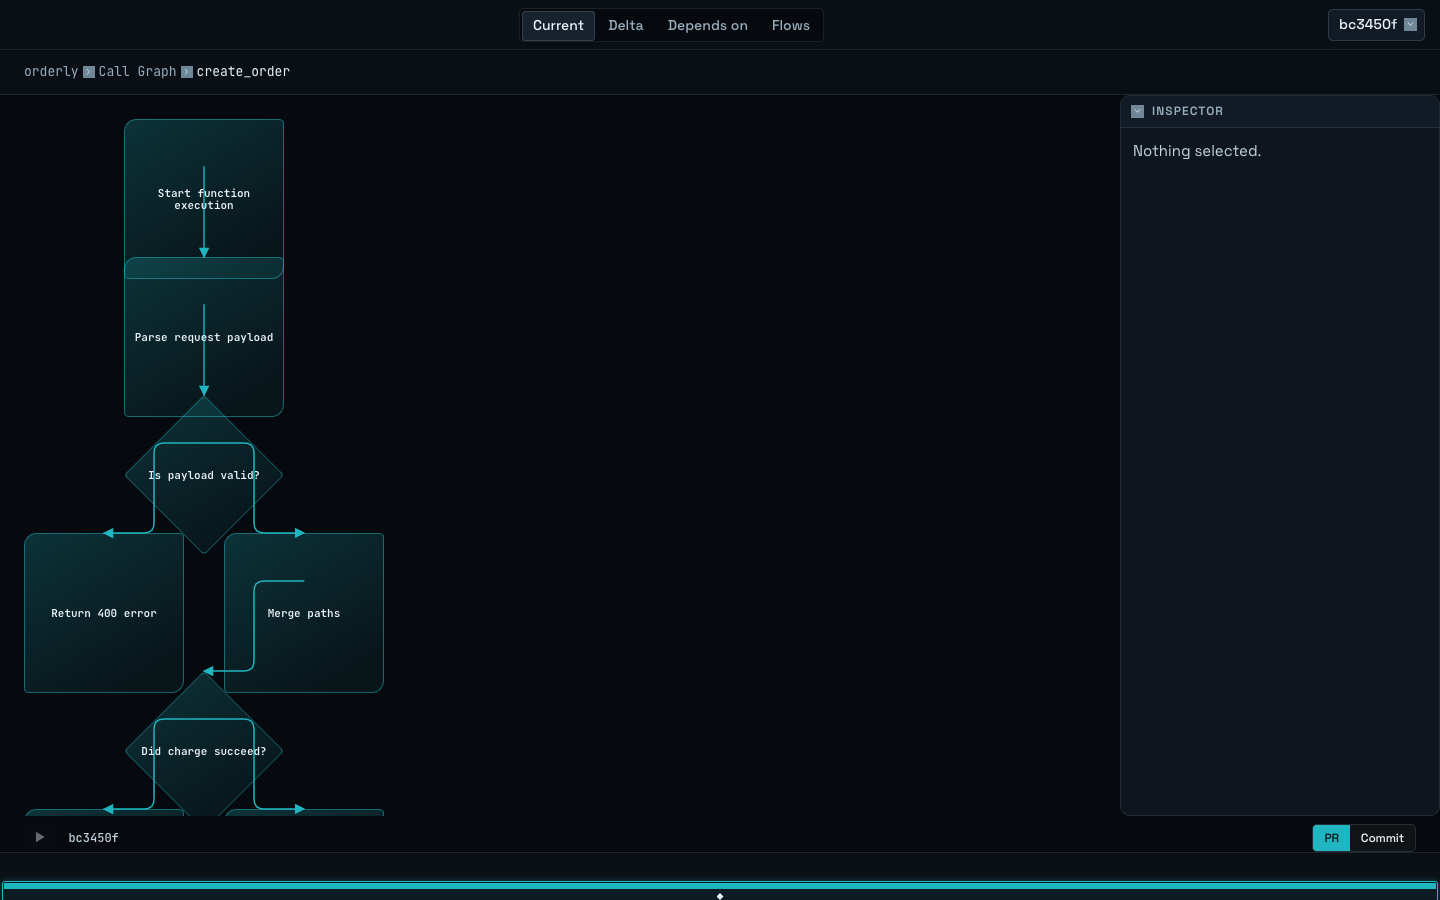
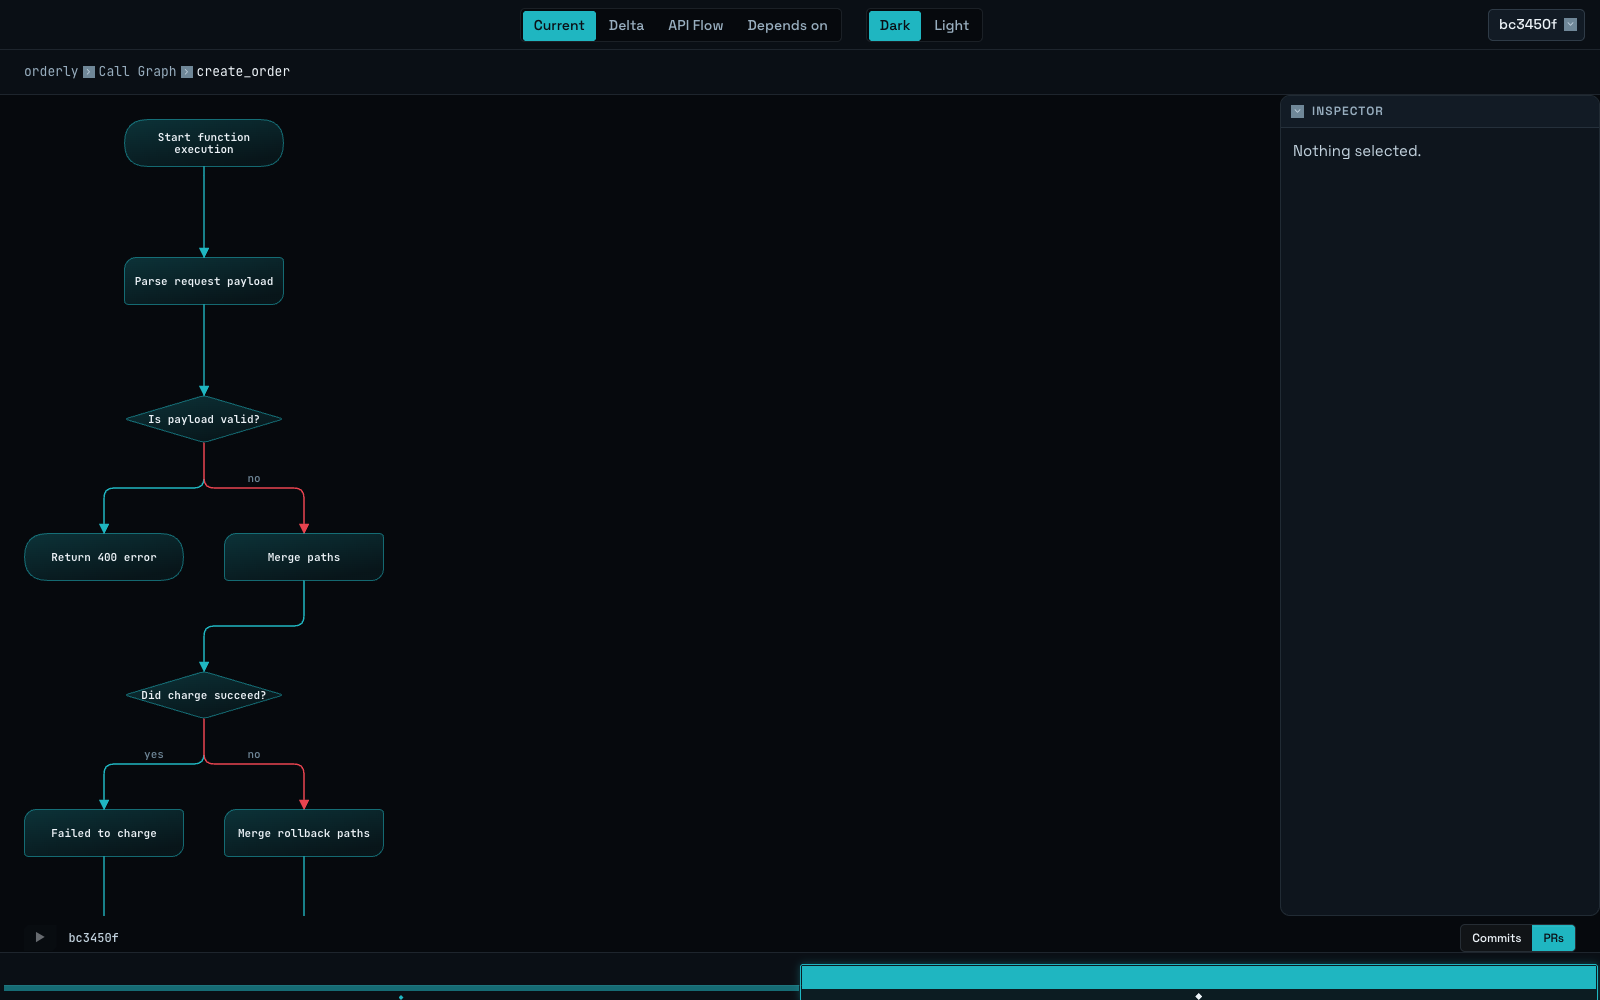
docs: reflect PR #84 branch-preserving API flow tracing in README
Package table and Flows-view description were written before the DI/middleware
splicing and branch-preserving stepsBranching work landed; screenshots refreshed
to match current UI.

diff --git a/README.md b/README.md
@@ -33,7 +33,7 @@ absent from the queue.
 |---|---|---|
 | `packages/extractor` | Parses a repo (Python + TypeScript via tree-sitter), resolves imports/calls into units and edges, reads `requirements.txt`/`package.json` manifests, and pulls per-file churn/authors from `git log` | Implemented |
 | `packages/schema` | Zod schemas (+ generated JSON Schema) for the `SymbolGraph`/`UnitGraph` contract | Implemented |
-| `packages/interpreter` | Pass A (leaf semantics), Pass B (import-cohesion clustering + deterministic checker), Pass C (architecture narration), Pass D (five-axis risk narration) + inspect-queue ranking, all via `Provider` (`ollama`, `anthropic`, `claude-cli`) + content cache | Implemented |
+| `packages/interpreter` | Pass A (leaf semantics), Pass B (import-cohesion clustering + deterministic checker), Pass C (architecture narration + branch-preserving API flow tracing, including framework DI/middleware steps), Pass D (five-axis risk narration) + inspect-queue ranking, all via `Provider` (`ollama`, `anthropic`, `claude-cli`) + content cache | Implemented |
 | `packages/differ` | Matches units across snapshots, classifies changes from hashes, computes blast radius and formula-floor risk, rolls amount/risk up to every ancestor; overrides risk with Pass D + ranking | Implemented |
 | `packages/cli` | `scv analyze` — extracts + lifts a repo into a `scv/1` snapshot; `scv diff <from> <to>` — diffs two snapshots into a `scv-delta/1` file with a ranked inspect queue | Implemented |
 | `packages/server` | Fastify API serving snapshots (`/api/revs`, `/api/snapshot/:sha`, `/api/search`, `/api/delta/:from/:to`, ...) | Implemented |
@@ -140,8 +140,9 @@ The top bar switches between four views:
 - **Depends on** — lists third-party externals (with ecosystem, version,
   direct/transitive depth) reached from the current selection.
 - **Flows** — traces a single `api_flow` end to end (the units one request
-  actually touches, in call order), with a step dot per changed unit in
-  Delta mode.
+  actually touches, including every branch — e.g. success/failure — and any
+  framework-wired DI/middleware ahead of the handler), with a step dot per
+  changed unit in Delta mode.
 
 A Replay timeline along the bottom scrubs through revisions (rev picker or
 drag), toggles between PR- and commit-level density, and shows a per-rev
